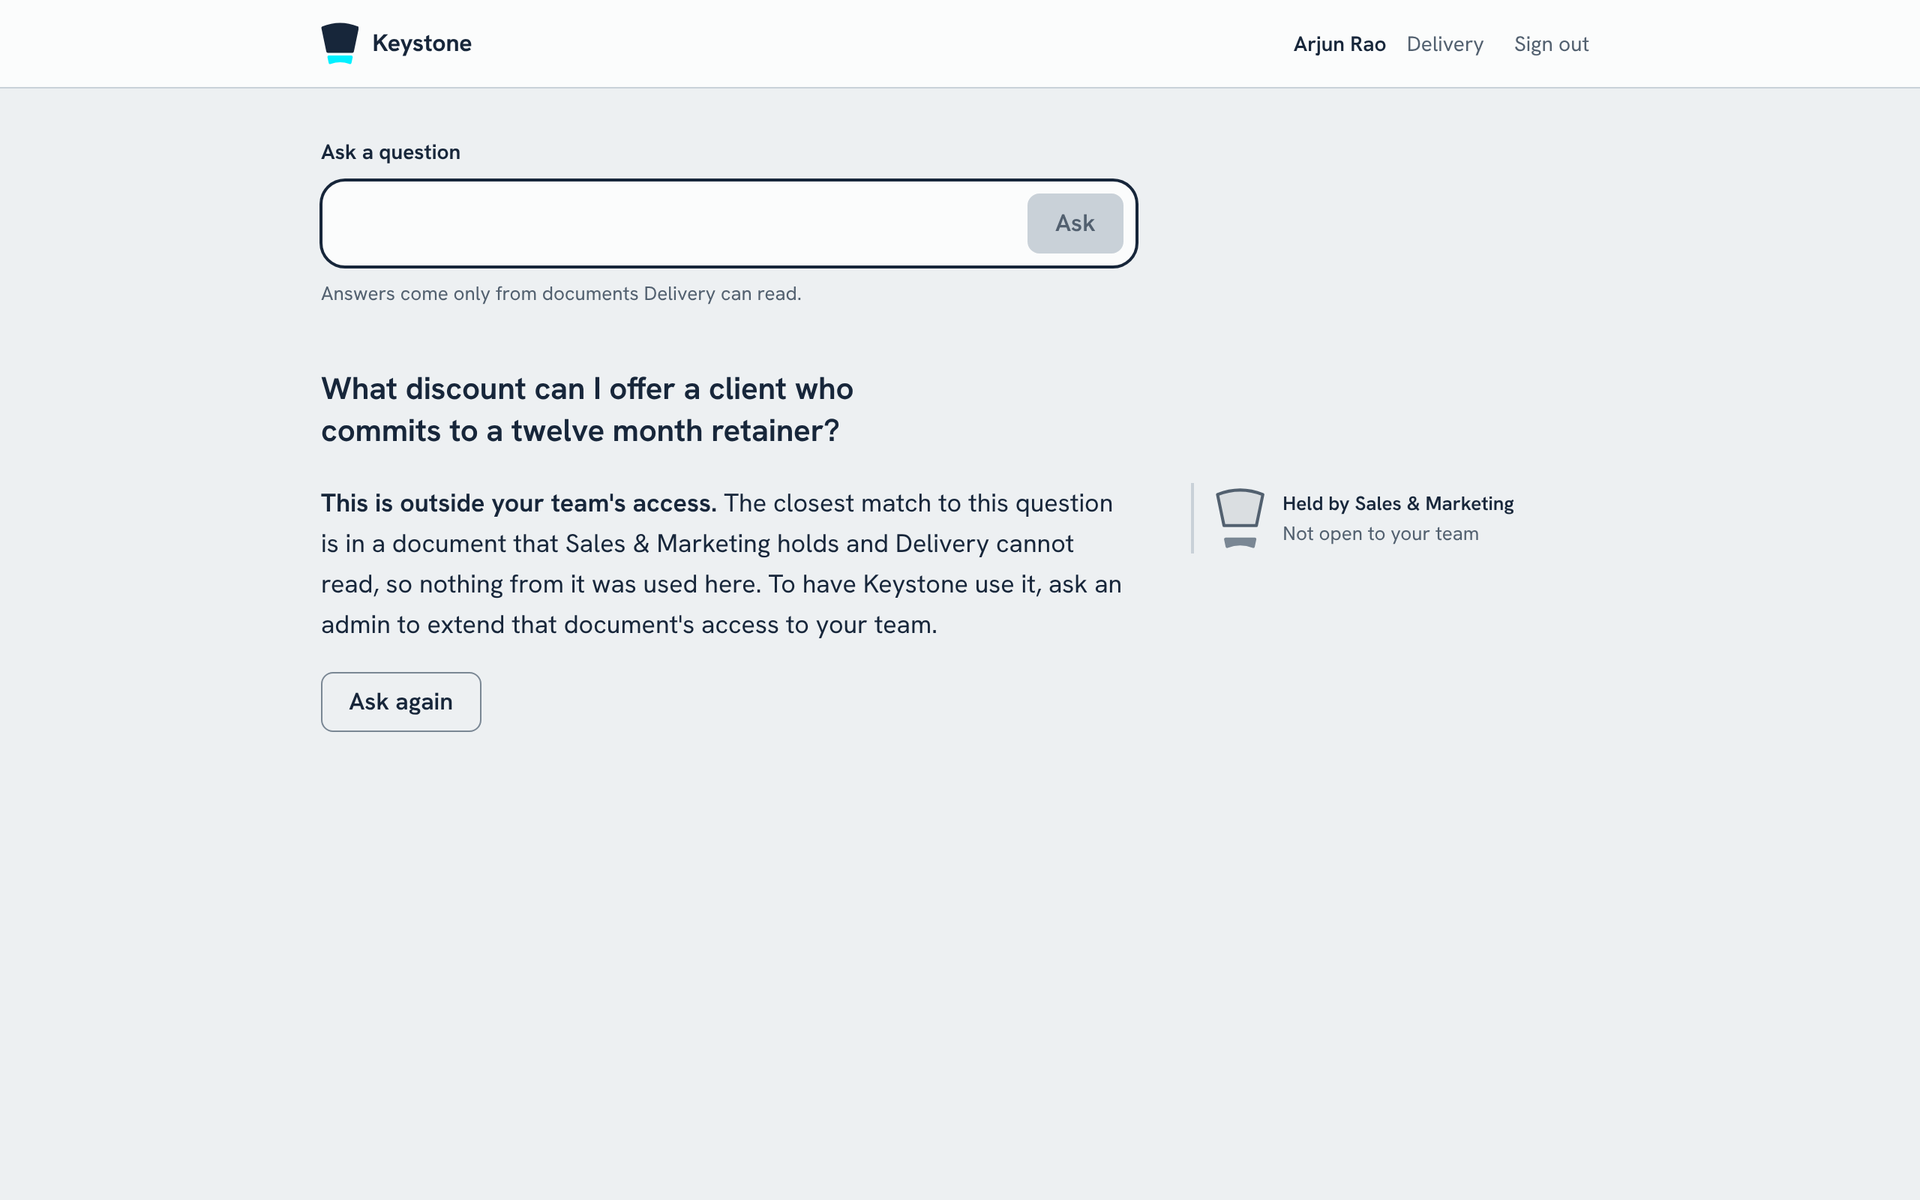
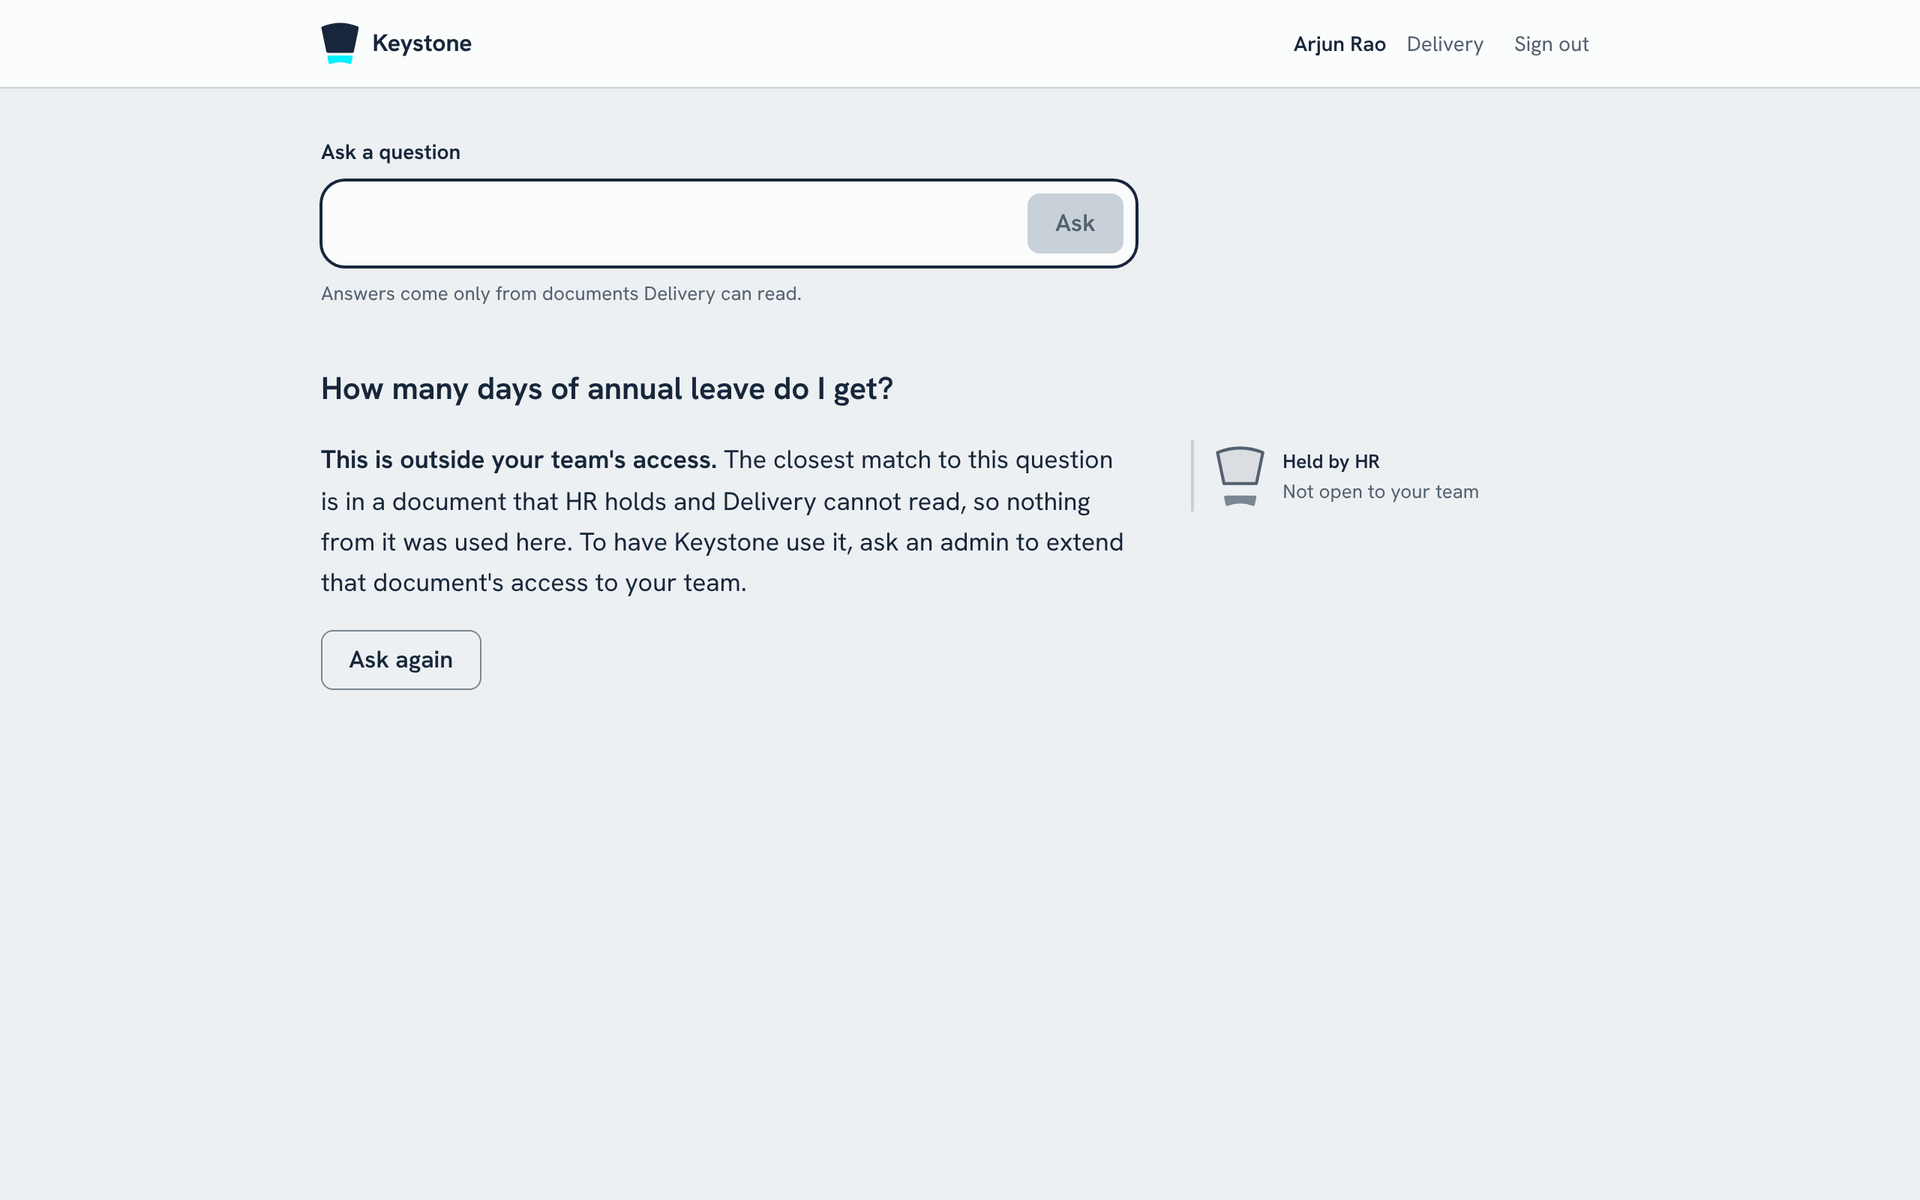
Make the README walkthrough match its screenshots: the annual leave question, refused, then answered from HR Policies

Changed region(s): [[0.1562, 0.3083, 0.5938, 0.6167], [0.625, 0.37, 0.7812, 0.4625]]

diff --git a/README.md b/README.md
@@ -65,28 +65,28 @@ The first time you open the web app the database is empty, so it asks you to cre
 From there, with the sample teams and demo documents:
 
 1. **People.** Add one employee to each team. Leave the employee number empty and Keystone assigns the next one for that team (`SAL-001`, `DEL-001`, `HR-001`). The line that appears after you add someone tells you the number to sign in with. Passwords need at least 10 characters.
-2. **Documents.** Upload `demo-docs/pricing-and-proposal-playbook.md` for Sales & Marketing only, `demo-docs/leave-and-benefits-policy.md` for HR only and `demo-docs/delivery-and-escalation-sop.md` for Delivery only. Each is split into passages and embedded, which takes a second or two. If your embeddings account is rate limited, an upload waits and says it is working.
+2. **Documents.** Upload `demo-docs/pricing-and-proposal-playbook.md` for Sales & Marketing only, `demo-docs/leave-and-benefits-policy.md` for HR only and `demo-docs/delivery-and-escalation-sop.md` for Delivery only. Type the titles Sales and Marketing Playbook, HR Policies and Delivery Handbook in the Title field, as the screenshots do. Left empty, the title is the document's first heading. Each is split into passages and embedded, which takes a second or two. If your embeddings account is rate limited, an upload waits and says it is working.
 
 <p align="center">
   <img src="docs/images/upload-result.png" alt="The admin Documents page after uploading the Delivery document: 26 passages were embedded, and the document is listed as readable by Delivery only" width="820" />
 </p>
 
-3. **Ask.** Sign out, then sign in as the Delivery employee and ask "What discount can I offer a client who commits to a twelve month retainer?" The answer is in a Sales & Marketing document, so Keystone refuses, names the team that holds it and shows an empty keystone-shaped slot where a source would have been.
+3. **Ask.** Sign out, then sign in as the Delivery employee and ask "How many days of annual leave do I get?" The answer is in HR Policies, which only HR can read, so Keystone refuses, names the team that holds it and shows an empty keystone-shaped slot where a source would have been.
 
 <p align="center">
-  <img src="docs/images/refused.png" alt="A Delivery employee is refused: the message says the closest match is in a document that Sales & Marketing holds and Delivery cannot read, and a slot in the margin reads Held by Sales & Marketing, Not open to your team" width="820" />
+  <img src="docs/images/refused.png" alt="A Delivery employee asks how many days of annual leave they get and is refused: the message says the closest match is in a document that HR holds and Delivery cannot read, and a slot in the margin reads Held by HR, Not open to your team" width="820" />
 </p>
 
-4. **Give access.** Sign in as the admin, open the playbook's Access page, choose Delivery and confirm. The page spells out what will change before you press the button.
+4. **Give access.** Sign in as the admin, open the Access page for HR Policies, choose Delivery and confirm. The page spells out what will change before you press the button.
 
 <p align="center">
-  <img src="docs/images/access-grant.png" alt="The admin Access page for a document: a confirmation reading that Delivery can now read it, a list of the teams that can read it with their source (given at upload, or extended after), a form to give another team access, and a delete section" width="820" />
+  <img src="docs/images/access-grant.png" alt="The admin Access page for HR Policies: a confirmation reading that Delivery can now read it, and a list of the teams that can read it with their source: HR from the upload, Delivery extended after" width="820" />
 </p>
 
-5. **Ask again.** The same question, from the same employee, is now answered from the document, with numbered citations in the margin. The slot fills.
+5. **Ask again.** The same question, from the same employee, is now answered from HR Policies, with numbered citations. The slot fills.
 
 <p align="center">
-  <img src="docs/images/answered-after-grant.png" alt="The same question answered with a numbered answer, each claim carrying a citation marker, and the cited passages shown beneath it" width="820" />
+  <img src="docs/images/answered-after-grant.png" alt="The annual-leave question answered from HR Policies: a numbered answer, each claim carrying a citation marker, with the cited passages shown beneath it" width="820" />
 </p>
 
 Every citation opens the source document on the exact passage, marked within the whole document, so a reader can check the claim in context.

diff --git a/demo-docs/README.md b/demo-docs/README.md
@@ -24,6 +24,6 @@ Sign in as an employee of the Delivery team and ask:
 | How many days of annual leave do I get? | Refused, naming HR, until HR Policies is made readable to Delivery |
 | What is the office Wi-Fi password? | No match. No document answers it |
 
-Then sign in as the admin, open the playbook's Access page, give Delivery access, and ask the retainer question again. This time it is answered, with citations.
+Then sign in as the admin, open the Access page for HR Policies, give Delivery access, and ask the leave question again. This time it is answered from HR Policies, with citations. The retainer question works the same way with the playbook.
 
 These results come from the default settings and the default embedding model (`voyage-4-lite`). A different embedding model scores differently, so a borderline question can land on the other side of a threshold. See "Tuning the thresholds" in the main README.
